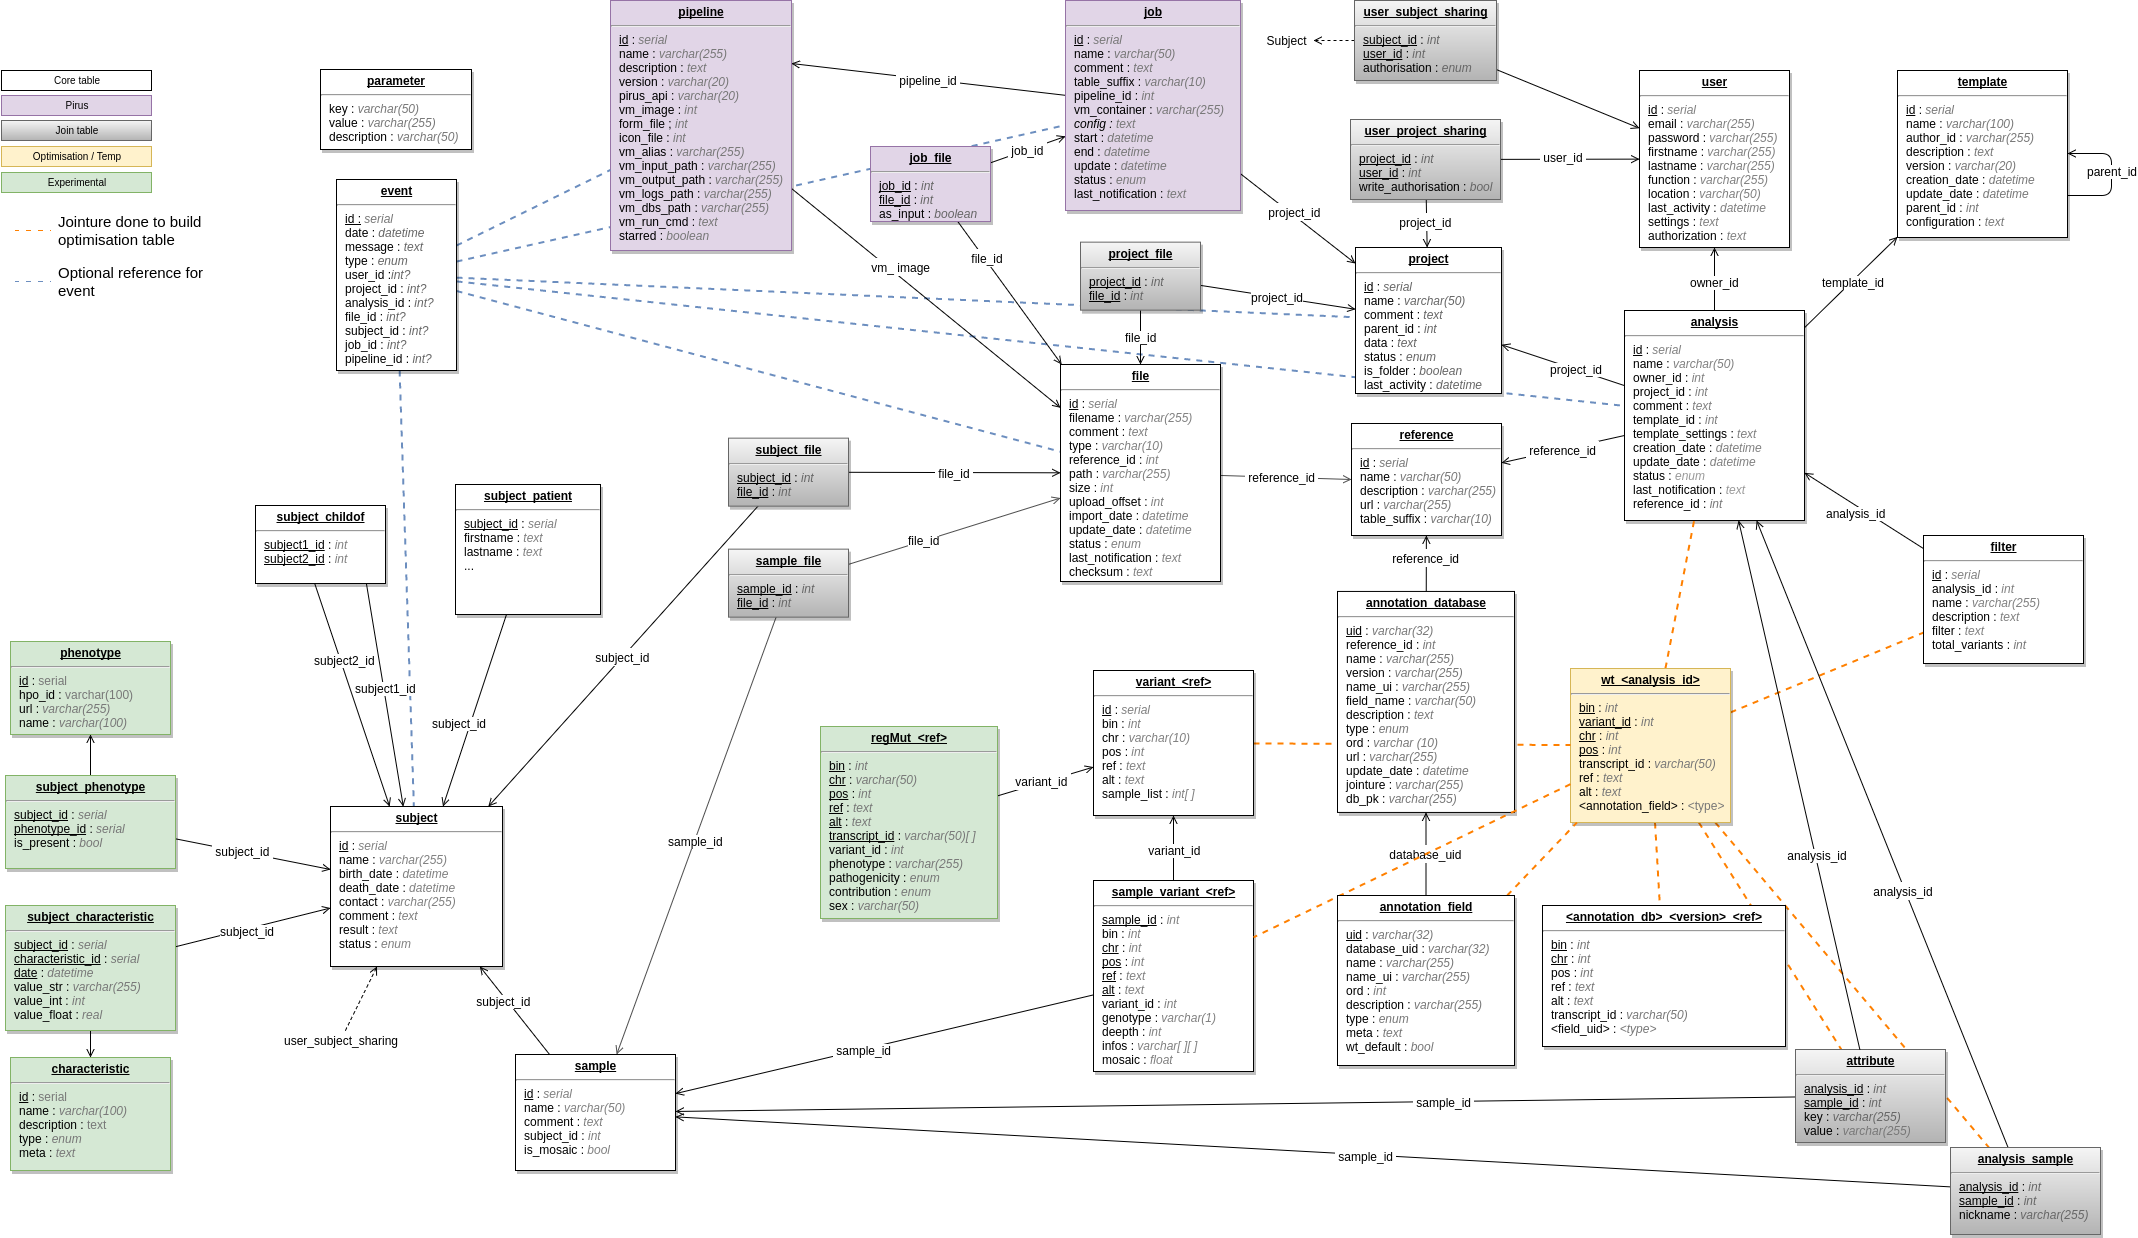
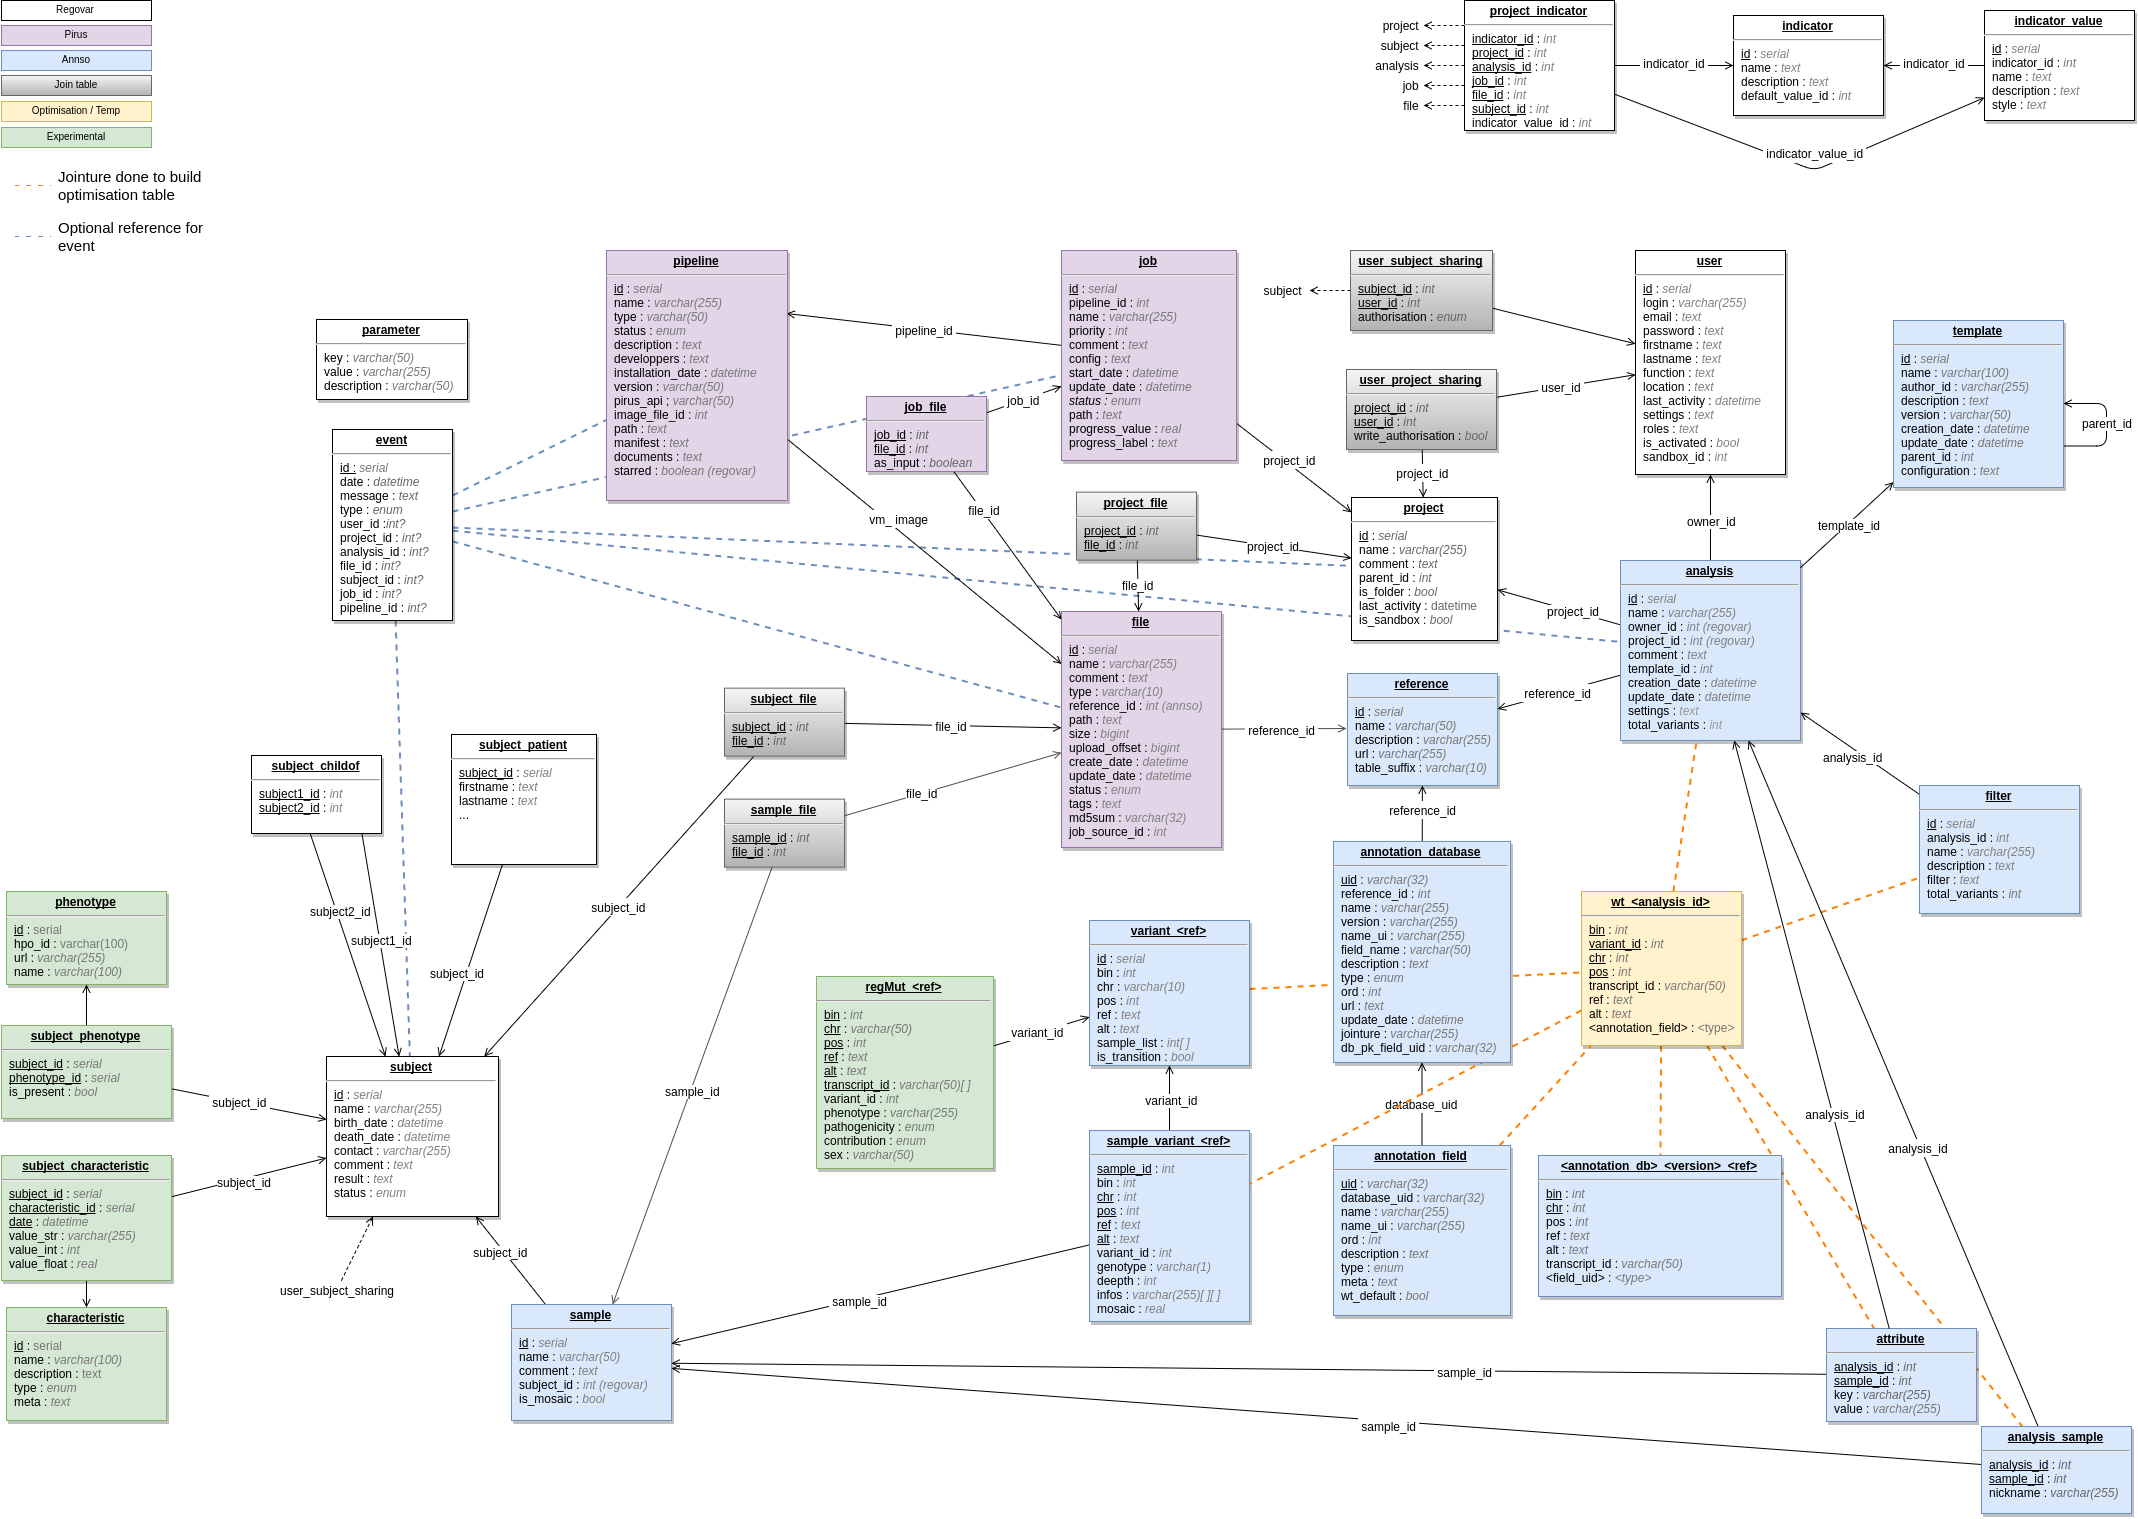
merge with annso in progress, clean db schema

diff --git a/Guide utilisateur/01. Bienvenue.md b/Guide utilisateur/01. Bienvenue.md
@@ -1,6 +1,7 @@
  
 # Bienvenue
 
+Regovar est un logiciel libre pour l’analyse de données de séquençage haut débit pour les maladies génétiques rares (mais pas que). Son rôle est de permettre l'analyse et la gestion des données issues des séquenceurs dans le but de faire de la recherche ou du diagnostic, et ce, que l'on soit bioinformaticien, biologiste ou bien clinicien. 
 
 Si vous désirez juste tester l'application, la section [Premiers pas]() vous propose une visite guidée du projet en 10 minutes.
 
